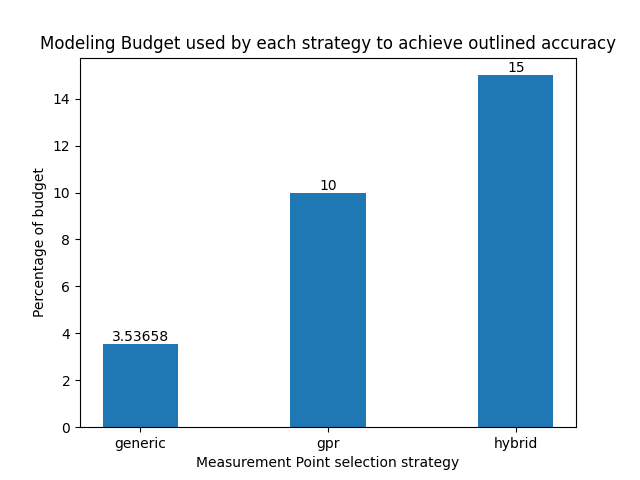
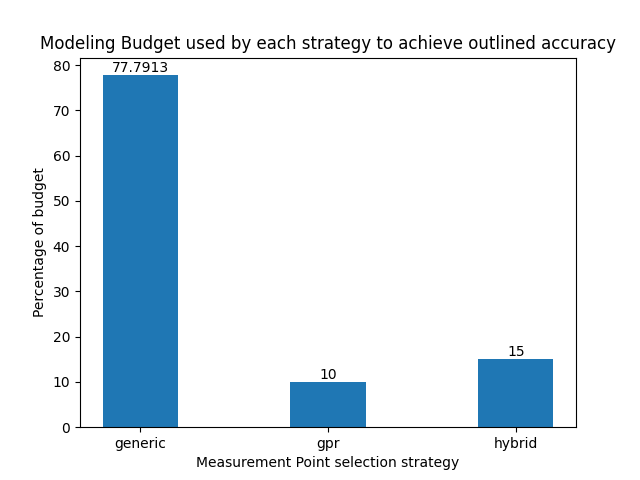
generic strategy working with budget control

diff --git a/case_study.py b/case_study.py
@@ -38,6 +38,27 @@ def percentage_error(true_value, measured_value):
     return percentage_error
 
 
+def calculate_selected_point_cost(selected_points, experiment, callpath_id, metric_id):
+    # calculate selected point cost
+    selected_cost = 0
+    for j in range(len(selected_points)):
+        coordinate = selected_points[j]
+        coordinate_id = -1
+        for k in range(len(experiment.coordinates)):
+            if coordinate == experiment.coordinates[k]:
+                coordinate_id = k
+        measurement_temp = experiment.get_measurement(coordinate_id, callpath_id, metric_id)
+        #print("measurement_temp:",measurement_temp)
+        coordinate_cost = 0
+        for k in range(len(measurement_temp.values)):
+            runtime = measurement_temp.values[k]
+            nr_processes = coordinate.as_tuple()[0]
+            core_hours = runtime * nr_processes
+            coordinate_cost += core_hours
+        selected_cost += coordinate_cost
+    return selected_cost
+
+
 def increment_accuracy_bucket(acurracy_bucket_counter, percentage_error):
     # increase the counter of the accuracy bucket the error falls into for strategy
     if percentage_error <= 5:
@@ -168,7 +189,7 @@ def main():
 
     positional_args = parser.add_argument_group("Positional args")
 
-    parser.add_argument("--budget", type=int, required=True,
+    parser.add_argument("--budget", type=int, required=False, default=0,
                         help="Percentage of total cost of all points that can be used by the selection strategies. Positive integer value between 0-100.")
     
     parser.add_argument("--processes", type=int, required=True,
@@ -264,17 +285,11 @@ def main():
         logging.basicConfig(
             format="%(levelname)s: %(message)s", level=loglevel)
 
-    #TODO: FASTEST, Kripke, MILC
+    #TODO: FASTEST, Kripke, MILC, Relearn
     #TODO: need to make measurements for MILC with 2 and three parameters
     #TODO: need to create, read input files for Relearn somehow...
 
-    #NOTE: -> for case studies... I need the percentage of models where the prediction is within +-5, +-10, +-15, +-20 % of the actual measurements
-    # using a total budget of 15, 20, 30 % of all available points, for the point selection
-    # mit +-1, +-2.5, +-5, +-7.5, +-10 % noise on the measurements for synthetic stuff
-
-    #TODO: use only kernels > 1 % runtime from total???
-
-    budget = args.budget
+    budget = int(args.budget)
     print("budget:",budget)
 
     processes = args.processes
@@ -359,11 +374,6 @@ def main():
             except RecoverableError as err:
                 logging.error('Saving experiment: ' + str(err))
                 sys.exit(1)
-
-        # TODO: code for case study analysis
-
-        
-        #print(experiment.parameters)
 
         metric_id = -1
         for i in range(len(experiment.metrics)):
@@ -639,10 +649,16 @@ def main():
                 #print("rss_base:",rss_base)
                 #print("ar2_base:",ar2_base)
 
-                stall_counter = 1
-                #TODO: find the best delta for 2,3,4 parameters...
-                #TODO: introduce a budget command line parameter switch, based on which the strategy keeps adding points until the set budget is reached...
-                delta = 1
+                """stall_counter = 1
+                if len(experiment.parameters) == 2:
+                    delta = 3
+                elif len(experiment.parameters) == 3:
+                    delta = 5
+                elif len(experiment.parameters) == 4:
+                    delta = 10
+                else:
+                    delta = 3"""
+                #delta = 3
                 while True:
 
                     # add another point
@@ -654,10 +670,20 @@ def main():
                         #print("remaining_points_new:",len(remaining_points_new))
                         break
 
+                    # calculate selected point cost
+                    current_cost = calculate_selected_point_cost(selected_coord_list_new, experiment, callpath_id, metric_id)
+                    current_cost = current_cost / (total_cost / 100)
+
+                    #print("budget:",budget,"current_cost:",current_cost)
+
+                    if budget != 0:
+                        if current_cost >= budget:
+                            break
+
                     # create new model
                     experiment_generic_new = create_experiment(selected_coord_list_new, experiment, len(experiment.parameters), parameters, metric_id, callpath_id)
                     #print("DEBUG:", len(experiment_generic_new.callpaths))
-                    model_generic_new, models = get_extrap_model(experiment_generic_new, args)
+                    _, models = get_extrap_model(experiment_generic_new, args)
                     hypothesis = None
                     for model in models.values():
                         hypothesis = model.hypothesis
@@ -666,7 +692,10 @@ def main():
                     #print("rss_new:",rss_new)
                     #print("ar2_new:",ar2_new)
 
-                    # if better continue, else stop after x steps without improvement...
+                    selected_coord_list_base = selected_coord_list_new
+                    remaining_points_base = remaining_points_new
+
+                    """# if better continue, else stop after x steps without improvement...
                     if rss_new <= rss_base:
                         #print("new rss is smaller")
                         stall_counter = 1
@@ -675,32 +704,13 @@ def main():
                         remaining_points_base = remaining_points_new
                     else:
                         #print("new rss is larger")
-                        if stall_counter == delta:
-                            break
-                        stall_counter += 1
+                        if budget == 0:
+                            if stall_counter == delta:
+                                break
+                        stall_counter += 1"""
 
-                #print("added_points:",added_points)
-                #print("len selected_coord_list_new:",len(selected_coord_list_base),len(selected_coord_list_new),added_points)
-
-                
                 # calculate selected point cost
-                selected_cost = 0
-                for j in range(len(selected_points)):
-                    coordinate = selected_points[j]
-                    coordinate_id = -1
-                    for k in range(len(experiment.coordinates)):
-                        if coordinate == experiment.coordinates[k]:
-                            coordinate_id = k
-                    measurement_temp = experiment.get_measurement(coordinate_id, callpath_id, metric_id)
-                    #print("measurement_temp:",measurement_temp)
-                    coordinate_cost = 0
-                    for k in range(len(measurement_temp.values)):
-                        runtime = measurement_temp.values[k]
-                        nr_processes = coordinate.as_tuple()[0]
-                        core_hours = runtime * nr_processes
-                        coordinate_cost += core_hours
-                    selected_cost += coordinate_cost
-                #print("selected_cost:",selected_cost)
+                selected_cost = calculate_selected_point_cost(selected_coord_list_base, experiment, callpath_id, metric_id)
 
                 # calculate the percentage of cost of the selected points compared to the total cost of the full matrix
                 percentage_cost_generic = selected_cost / (total_cost / 100)
@@ -720,15 +730,7 @@ def main():
                 #container["model_generic"] = model_generic
 
                 # create model using full matrix of points
-                #model_full, _ = get_extrap_model(experiment, args)
-                #TODO: use this instead here:   all_points_functions_strings[callpath_string]
-                #print("model_full:",model_full)
-                #container["model_full"] = model_full
-
-
                 # evaluate model accuracy against the first point in each direction of the parameter set for each parameter
-                #print("DEBUG:",parameters)
-
                 if parameters[0] == "p" and parameters[1] == "size":
                     p = int(eval_point[0])
                     size = int(eval_point[1])
